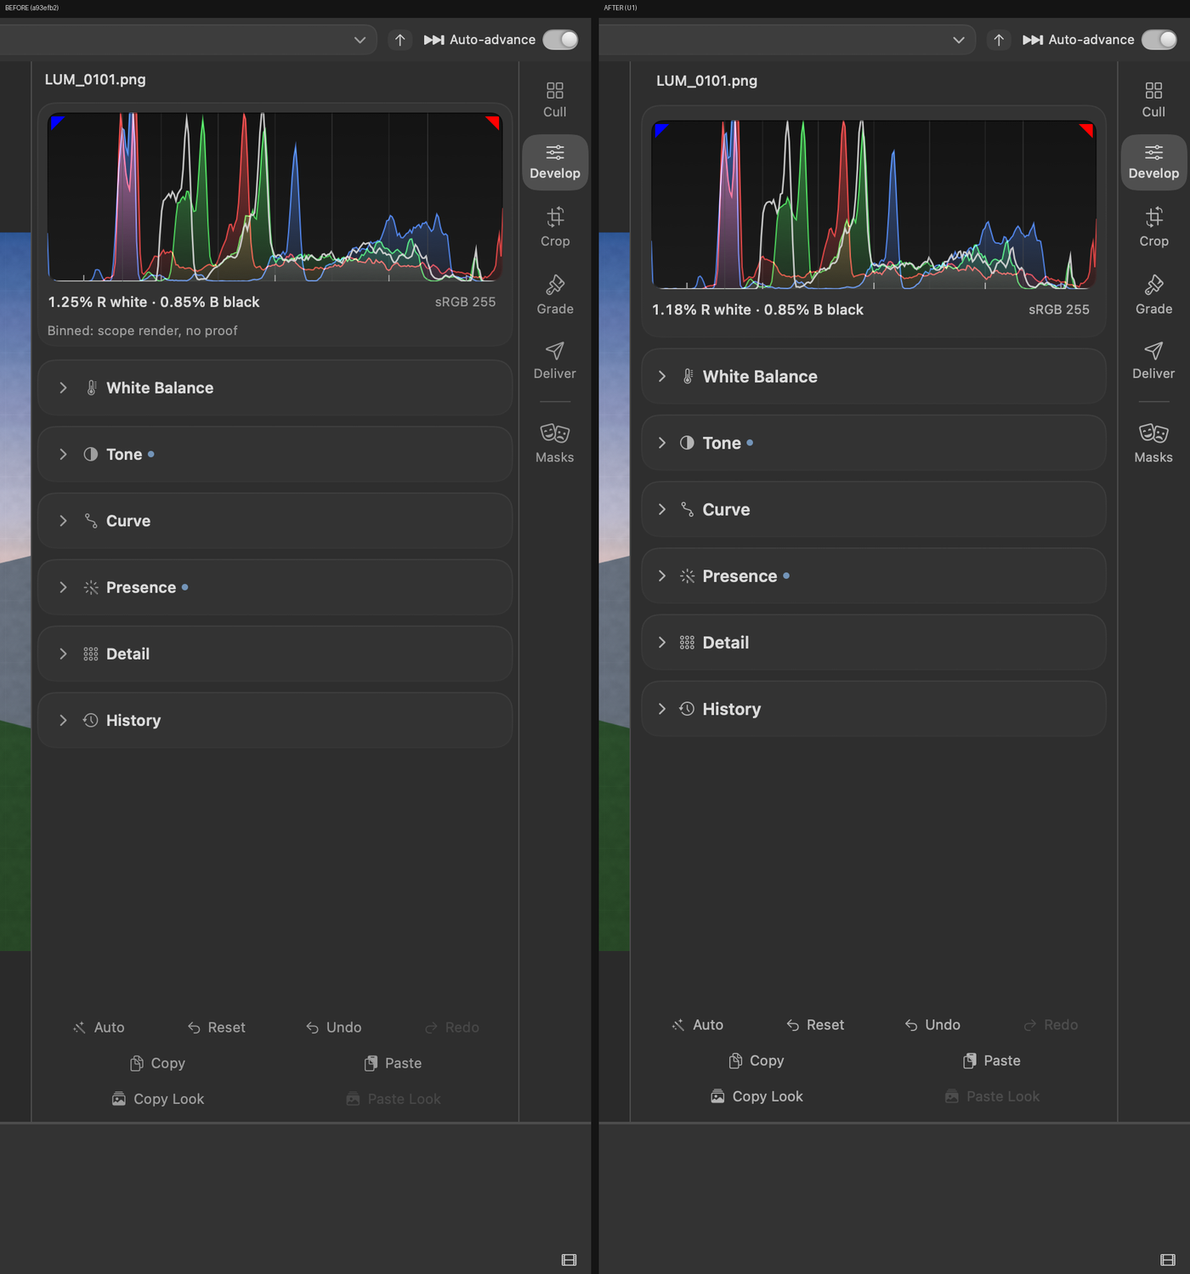
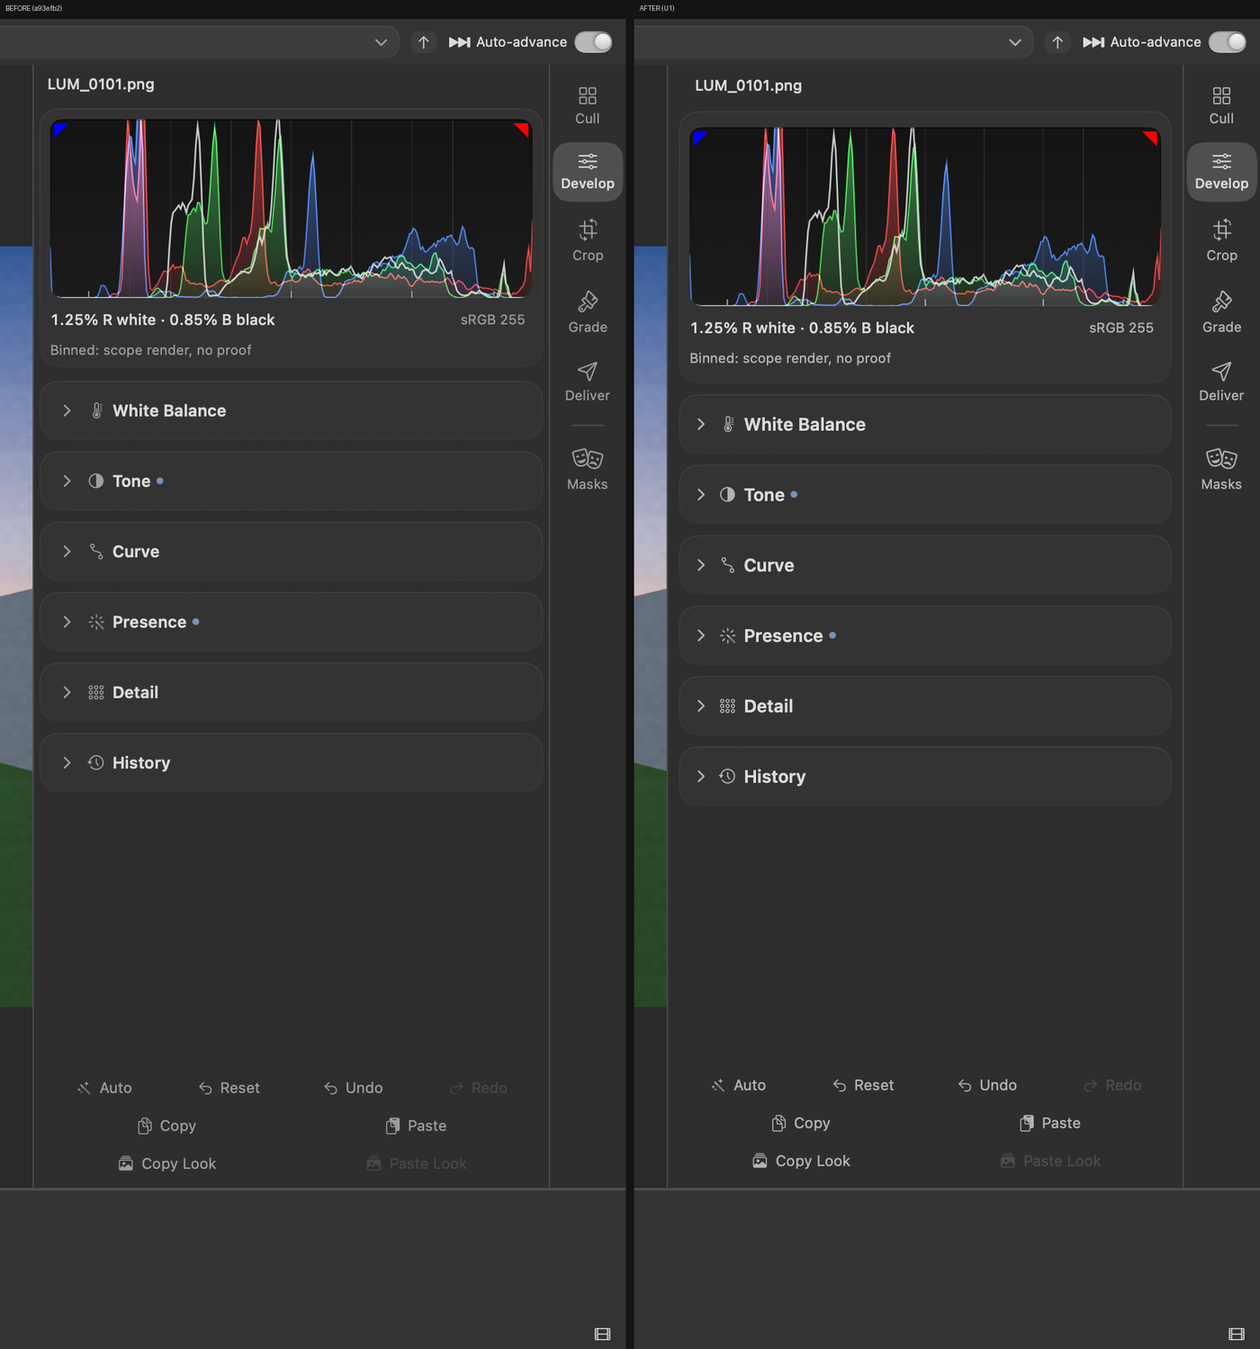
U1: keep the scope instruments' content width; re-cite the wheel bar
macOS CI on dcd20b4 failed two tests this lane caused:

- ScopeTests: the clipping headline's widest case (209.8 pt) no longer fit
  its 206.9 pt slot at the 320 pt column once the gutter around the
  histogram went 4 -> 8. HistogramView and ScopesView come in by the same
  4 (Lumen.space1), so their content width is the baseline 296 pt again
  while the card edge still lines up with the section cards.
- LayoutMetricSelfTests: the two wheel-bar rows cited LumenControls.swift
  line 2222, which this lane's additions moved to 2332.

fixtures-linux fails identically on a93efb2 (Font in LumenType.swift:30)
and is not this lane's. Evidence images regenerated from dcd20b4, plus
the sidebar before/after.

Claude-Session: https://claude.ai/code/session_01WpKwzmoXo9a9LMqFE1SfcA

Changed region(s): [[0.5597, 0.0918, 0.9017, 0.5816], [0.5908, 0.0918, 0.6218, 0.1531]]

diff --git a/Tests/LumenAppTests/ScopeTests.swift b/Tests/LumenAppTests/ScopeTests.swift
@@ -40,8 +40,9 @@ final class ScopeTests: XCTestCase {
         /// `DevelopPanel.swift` — the instrument's own inset in the column, each side.
         static var instrumentInset: CGFloat { Lumen.columnGutter }
         /// `HistogramView.swift` / `ScopesView.swift` — each view's inner gutter, each
-        /// side. The two are the same number and are asserted to stay so.
-        static let viewInset: CGFloat = 8
+        /// side. The two are the same number and are asserted to stay so. 8 → 4 in U1, as
+        /// the column gutter outside them went 4 → 8, so `contentWidth` is unchanged.
+        static var viewInset: CGFloat { Lumen.space1 }
         /// `HistogramView.swift` — `readoutLine`'s `HStack(spacing:)`, twice (Text,
         /// Spacer, Button), plus the `Spacer(minLength:)` between them.
         static let readoutGap: CGFloat = 6
@@ -85,13 +86,13 @@ final class ScopeTests: XCTestCase {
                       "and the scopes'")
 
         let histogram = try Self.strippedFlattened("Sources/LumenApp/HistogramView.swift")
-        XCTAssertTrue(histogram.contains(".padding(.horizontal, Lumen.space2)"))
+        XCTAssertTrue(histogram.contains(".padding(.horizontal, Lumen.space1)"))
         XCTAssertTrue(histogram.contains("HStack(spacing: 6) { Text(primaryReadout)"))
         XCTAssertTrue(histogram.contains("Spacer(minLength: 4)"))
         XCTAssertTrue(histogram.contains(".padding(.horizontal, 5)"))
 
         let scopes = try Self.strippedFlattened("Sources/LumenApp/ScopesView.swift")
-        XCTAssertTrue(scopes.contains(".padding(.horizontal, 8)"))
+        XCTAssertTrue(scopes.contains(".padding(.horizontal, Lumen.space1)"))
     }
 
     // MARK: - Overflow: the readout line

diff --git a/Sources/LumenApp/HistogramView.swift b/Sources/LumenApp/HistogramView.swift
@@ -114,12 +114,16 @@ struct HistogramView: View {
                     .help(measurementStatement)
             }
         }
-        // 8, NOT THE SECTION CARDS' 12 (U1), and it is a measured trade. At 12 the
-        // clipping headline's widest case ("100.00% RB white · 100.00% RB black") is
-        // within about a point of its slot at the 320 pt minimum column (ScopeTests),
-        // and a truncated clipping readout is worse than a readout 4 pt left of the
-        // labels. The vertical went 8/6 → 12/12 so the card's rhythm matches the rest.
-        .padding(.horizontal, Lumen.space2)
+        // 4, NOT THE SECTION CARDS' 12 (U1), and it is a measured trade. The card moved
+        // out to `columnGutter` (8) so its edge lines up with the section cards below,
+        // and this came in by the same 4 so the well and the readout sit exactly where
+        // they did. They have to: the clipping headline's widest case ("100.00% RB
+        // white · 100.00% RB black") measures 209.8 pt at the 320 pt minimum column,
+        // and at an 8 pt inset its slot was 206.9 (ScopeTests, macOS CI). A truncated
+        // clipping readout is worse than a readout 8 pt left of the slider labels. The
+        // well's corner (9) is also now nearly concentric with the card's (14 − 4).
+        // The vertical went 8/6 → 12/12 so the card's rhythm matches the rest.
+        .padding(.horizontal, Lumen.space1)
         .padding(.top, Lumen.space3)
         .padding(.bottom, Lumen.space3)
         .foregroundStyle(Lumen.primaryText)

diff --git a/Tests/LumenAppTests/LayoutMetricSupport.swift b/Tests/LumenAppTests/LayoutMetricSupport.swift
@@ -670,9 +670,9 @@ enum SliderInventory {
         // suite already filters empty titles out. An unmeasured control is the one that
         // ships broken, and this one is the app's narrowest track by a wide margin —
         // `MaskPanel`'s four-up gets 50 points for 200 steps, a quarter of a point each.
-        SliderSpec("", "LumenControls.swift:2222 (LookPanel.swift:986)", .gradeWheelBar,
+        SliderSpec("", "LumenControls.swift:2332 (LookPanel.swift:986)", .gradeWheelBar,
                    -1...1, step: 0.01, decimals: 2),
-        SliderSpec("", "LumenControls.swift:2222 (MaskPanel.swift:3011)", .maskWheelBar,
+        SliderSpec("", "LumenControls.swift:2332 (MaskPanel.swift:3011)", .maskWheelBar,
                    -1...1, step: 0.01, decimals: 2),
 
         // The Heal tool's bar on the loupe. Size is in pixels of the original file.

diff --git a/Sources/LumenApp/ScopesView.swift b/Sources/LumenApp/ScopesView.swift
@@ -82,7 +82,9 @@ struct ScopesView: View {
                     .help(measurementStatement)
             }
         }
-        .padding(.horizontal, 8)
+        // 4 since U1, matching `HistogramView`: the column gutter outside went 4 → 8, so
+        // the instrument's content keeps the width ScopeTests budgets every caption in.
+        .padding(.horizontal, Lumen.space1)
         .padding(.vertical, 6)
         .background(Lumen.panelBackground)
         .foregroundStyle(Lumen.primaryText)
